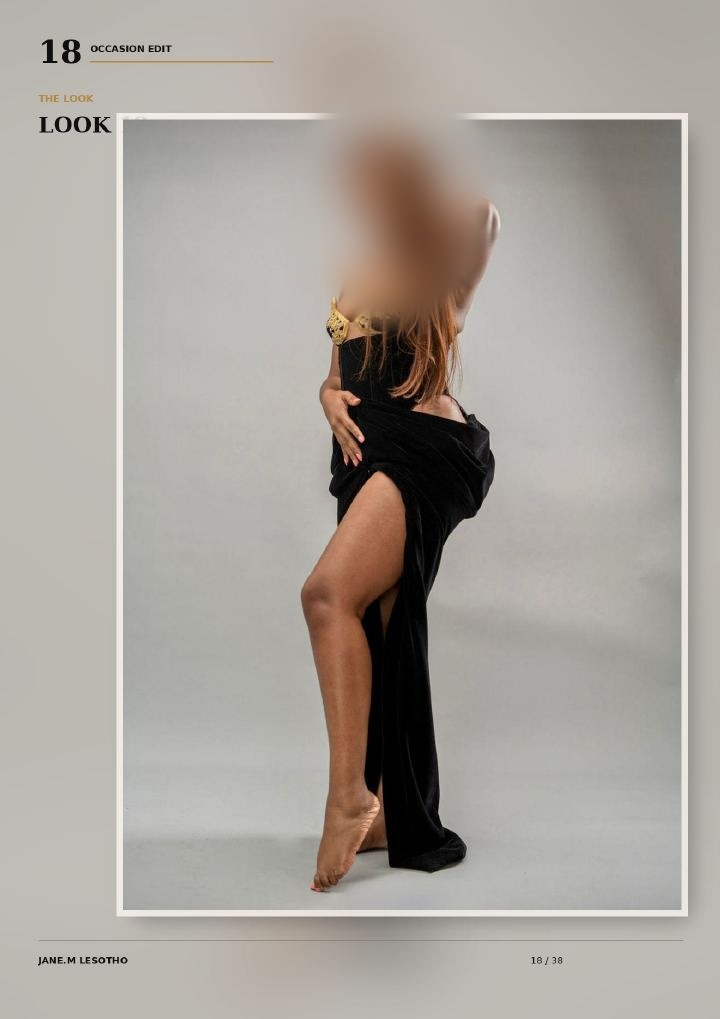
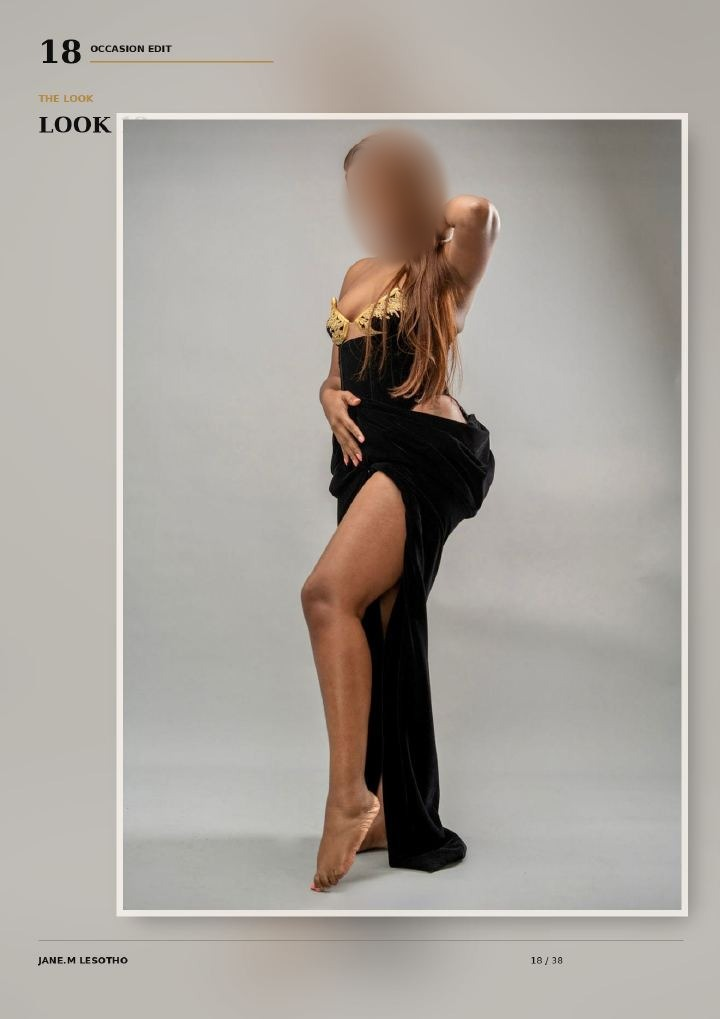
fix: restore JaneM TV embeds and catalogue previews

Changed region(s): [[0.4583, 0.1521, 0.6722, 0.3346], [0.4278, 0.0913, 0.6417, 0.1521], [0.4583, 0.1521, 0.4889, 0.1825]]

diff --git a/JaneM_Website/janem-tv/index.html b/JaneM_Website/janem-tv/index.html
@@ -10,9 +10,6 @@
   <link rel="preconnect" href="https://fonts.gstatic.com" crossorigin />
   <link rel="preload" as="style" href="https://fonts.googleapis.com/css2?family=Cormorant+Garamond:wght@500;600;700&family=Manrope:wght@400;500;600;700&display=swap" onload="this.onload=null;this.rel='stylesheet'" />
   <link rel="stylesheet" href="../styles.css" />
-
-
-
 <!-- SEO:START --><link rel="canonical" href="https://sargont.github.io/JaneM/janem-tv/" /><meta name="robots" content="index,follow,max-image-preview:large" /><meta property="og:type" content="website" /><meta property="og:site_name" content="Jane.M Lesotho" /><meta property="og:title" content="JaneM TV | Official JaneM" /><meta property="og:description" content="Behind the Seams — JaneM TV: fashion inspiration, studio moments and stories from the designer." /><meta property="og:url" content="https://sargont.github.io/JaneM/janem-tv/" /><meta property="og:image" content="https://sargont.github.io/JaneM/assets/look-gold.jpg" /><meta property="og:image:alt" content="Jane.M fashion collection" /><meta name="twitter:card" content="summary_large_image" /><meta name="twitter:title" content="JaneM TV | Official JaneM" /><meta name="twitter:description" content="Behind the Seams — JaneM TV: fashion inspiration, studio moments and stories from the designer." /><meta name="twitter:image" content="https://sargont.github.io/JaneM/assets/look-gold.jpg" /><script type="application/ld+json">{"@context":"https://schema.org","@type":"ClothingStore","name":"Jane.M Lesotho","url":"https://sargont.github.io/JaneM/","email":"officialjanem@gmail.com","telephone":"+26662790946","areaServed":[{"@type":"City","name":"Maseru"},{"@type":"City","name":"Lesotho"}],"sameAs":["https://youtube.com/@janemtv","https://www.facebook.com/share/1CvrANPy9Q/","https://www.instagram.com/___jane_m/"]}</script><script type="application/ld+json">{"@context":"https://schema.org","@type":"BreadcrumbList","itemListElement":[{"@type":"ListItem","position":1,"name":"Home","item":"https://sargont.github.io/JaneM/"},{"@type":"ListItem","position":2,"name":"JaneM TV","item":"https://sargont.github.io/JaneM/janem-tv/"}]}</script><!-- SEO:END -->
 </head>
 <body>
@@ -32,6 +29,6 @@
     <section class="janem-tv-gallery section"><div class="container"><div class="janem-tv-intro"><p class="eyebrow">Watch next</p><div><h2>From the studio.</h2><p>Choose a story to feature it above. Video playback loads only when a configured JaneM TV video is selected.</p></div></div><div class="janem-tv-cards" data-janem-tv-cards aria-label="JaneM TV video selection"></div><div class="janem-tv-channel-cta"><a class="btn btn-ghost" data-janem-tv-channel data-analytics-event="janem_tv_channel" href="https://youtube.com/@janemtv" target="_blank" rel="noopener noreferrer">Watch JaneM TV</a></div></div></section>
   </main>
   <footer><div class="container footer-grid"><div class="footer-brand"><a class="brand" href="../index.html" aria-label="Jane.M home"><img src="../assets/logo-transparent.png" width="1055" height="1491" alt="Jane.M Lesotho logo" /></a><p>Made-to-measure women's fashion for milestones and special occasions.</p></div><div><strong>Contact</strong><a data-analytics-event="whatsapp_click" href="https://wa.me/26662790946" target="_blank" rel="noopener">+266 6279 0946 on WhatsApp</a><a href="mailto:officialjanem@gmail.com">officialjanem@gmail.com</a></div><div><strong>Explore</strong><a href="./">JaneM TV</a><a href="../journal/">Journal</a><a href="../privacy/">Privacy</a><a href="../terms/">Terms</a></div></div><div class="container footer-bottom"><span>© 2026 Jane.M Lesotho</span><span>Elegantly you. Uniquely Jane.M.</span></div></footer>
-  <script src="../config.js"></script><script src="../analytics.js"></script><script src="../seo-analytics.js"></script><script src="janem-tv-config.js"></script><script src="janem-tv.js"></script><script src="../script.js"></script>
+  <script src="../config.js"></script><script src="../analytics.js"></script><script src="../seo-analytics.js"></script><script src="janem-tv-config.js?v=20260804videos"></script><script src="janem-tv.js?v=20260804videos"></script><script src="../script.js"></script>
 </body>
 </html>

diff --git a/scripts/build-seo-site.js b/scripts/build-seo-site.js
@@ -56,7 +56,7 @@ const imageEntries = ["assets/look-gold.jpg", "assets/look-sleeves.jpg", "assets
 fs.writeFileSync(path.join(site, "sitemap.xml"), `<?xml version="1.0" encoding="UTF-8"?>\n<urlset xmlns="http://www.sitemaps.org/schemas/sitemap/0.9" xmlns:image="http://www.google.com/schemas/sitemap-image/1.1">\n${sitemapRoutes.map((route, index) => `  <url><loc>${absolute(route)}</loc><lastmod>${today}</lastmod>${index < 4 ? `<image:image><image:loc>${absolute(imageEntries[index % imageEntries.length])}</image:loc><image:title>Jane.M Lesotho collection</image:title></image:image>` : ""}</url>`).join("\n")}\n</urlset>\n`);
 fs.writeFileSync(path.join(site, "robots.txt"), `User-agent: *\nAllow: /\nDisallow: /admin/\nDisallow: /admin.html\nDisallow: /assets/catalogue.pdf\n\nSitemap: ${absolute("/sitemap.xml")}\n`);
 fs.writeFileSync(path.join(site, "404.html"), `<!doctype html><html lang="en"><head><meta charset="utf-8"><meta name="viewport" content="width=device-width,initial-scale=1"><meta name="robots" content="noindex,follow"><title>Page not found | Jane.M Lesotho</title><link rel="stylesheet" href="styles.css"></head><body><main class="admin-page"><div class="admin-shell"><p class="eyebrow">404</p><h1>That page is<br><span>not here.</span></h1><p class="admin-lead">The page may have moved, or the link may be incomplete.</p><a class="btn btn-gold" href="index.html">Return to Jane.M</a></div></main></body></html>`);
-function augmentExisting(file, page, route, image, extras) { const target = path.join(site, file); let html = fs.readFileSync(target, "utf8"); html = html.replace(/<!-- SEO:START -->[\s\S]*?<!-- SEO:END -->/, ""); html = html.replace("</head>", `${metadata(page, route, image, extras)}\n</head>`); if (!html.includes("seo-analytics.js")) html = html.replace("</body>", "  <script src=\"seo-analytics.js\"></script>\n</body>"); fs.writeFileSync(target, html); }
+function augmentExisting(file, page, route, image, extras) { const target = path.join(site, file); let html = fs.readFileSync(target, "utf8"); html = html.replace(/(?:\n[ \t]*)*<!-- SEO:START -->[\s\S]*?<!-- SEO:END -->/, ""); html = html.replace("</head>", `${metadata(page, route, image, extras)}\n</head>`); if (!html.includes("seo-analytics.js")) html = html.replace("</body>", "  <script src=\"seo-analytics.js\"></script>\n</body>"); fs.writeFileSync(target, html); }
 const website = { "@context": "https://schema.org", "@type": "WebSite", name: "Jane.M Lesotho", url: absolute("/") };
 const video = { "@context": "https://schema.org", "@type": "VideoObject", name: "Jane.M Graduation Collection 2026", description: "Jane.M promotional film for the Graduation Collection 2026.", thumbnailUrl: absolute("assets/look-gold.jpg"), contentUrl: absolute("assets/promo-video.mp4"), uploadDate: "2026-08-04" };
 augmentExisting("index.html", { title: "Made-to-measure dresses for milestones", description: "Jane.M Lesotho creates made-to-measure graduation, wedding and occasion dresses.", imageAlt: "Jane.M ivory and gold corset dress" }, "/", "assets/look-gold.jpg", [website, video]);

diff --git a/JaneM_Website/index.html b/JaneM_Website/index.html
@@ -12,15 +12,6 @@
   <link rel="preload" as="style" href="https://cdnjs.cloudflare.com/ajax/libs/font-awesome/6.5.2/css/all.min.css" referrerpolicy="no-referrer" onload="this.onload=null;this.rel='stylesheet'" />
   <link rel="stylesheet" href="styles.css?v=20260804seo" />
   <noscript><link href="https://fonts.googleapis.com/css2?family=Cormorant+Garamond:wght@500;600;700&family=Manrope:wght@400;500;600;700&display=swap" rel="stylesheet"><link rel="stylesheet" href="https://cdnjs.cloudflare.com/ajax/libs/font-awesome/6.5.2/css/all.min.css" referrerpolicy="no-referrer" /></noscript>
-
-
-
-
-
-
-
-
-
 <!-- SEO:START --><link rel="canonical" href="https://sargont.github.io/JaneM/" /><meta name="robots" content="index,follow,max-image-preview:large" /><meta property="og:type" content="website" /><meta property="og:site_name" content="Jane.M Lesotho" /><meta property="og:title" content="Made-to-measure dresses for milestones" /><meta property="og:description" content="Jane.M Lesotho creates made-to-measure graduation, wedding and occasion dresses." /><meta property="og:url" content="https://sargont.github.io/JaneM/" /><meta property="og:image" content="https://sargont.github.io/JaneM/assets/look-gold.jpg" /><meta property="og:image:alt" content="Jane.M ivory and gold corset dress" /><meta name="twitter:card" content="summary_large_image" /><meta name="twitter:title" content="Made-to-measure dresses for milestones" /><meta name="twitter:description" content="Jane.M Lesotho creates made-to-measure graduation, wedding and occasion dresses." /><meta name="twitter:image" content="https://sargont.github.io/JaneM/assets/look-gold.jpg" /><script type="application/ld+json">{"@context":"https://schema.org","@type":"ClothingStore","name":"Jane.M Lesotho","url":"https://sargont.github.io/JaneM/","email":"officialjanem@gmail.com","telephone":"+26662790946","areaServed":[{"@type":"City","name":"Maseru"},{"@type":"City","name":"Lesotho"}],"sameAs":["https://youtube.com/@janemtv","https://www.facebook.com/share/1CvrANPy9Q/","https://www.instagram.com/___jane_m/"]}</script><script type="application/ld+json">{"@context":"https://schema.org","@type":"BreadcrumbList","itemListElement":[{"@type":"ListItem","position":1,"name":"Home","item":"https://sargont.github.io/JaneM/"}]}</script><script type="application/ld+json">{"@context":"https://schema.org","@type":"WebSite","name":"Jane.M Lesotho","url":"https://sargont.github.io/JaneM/"}</script><script type="application/ld+json">{"@context":"https://schema.org","@type":"VideoObject","name":"Jane.M Graduation Collection 2026","description":"Jane.M promotional film for the Graduation Collection 2026.","thumbnailUrl":"https://sargont.github.io/JaneM/assets/look-gold.jpg","contentUrl":"https://sargont.github.io/JaneM/assets/promo-video.mp4","uploadDate":"2026-08-04"}</script><!-- SEO:END -->
 </head>
 <body>

diff --git a/JaneM_Website/catalogue.html b/JaneM_Website/catalogue.html
@@ -12,15 +12,6 @@
   <link rel="preload" as="style" href="https://cdnjs.cloudflare.com/ajax/libs/font-awesome/6.5.2/css/all.min.css" referrerpolicy="no-referrer" onload="this.onload=null;this.rel='stylesheet'" />
   <link rel="stylesheet" href="styles.css?v=20260804seo" />
   <noscript><link href="https://fonts.googleapis.com/css2?family=Cormorant+Garamond:wght@500;600;700&family=Manrope:wght@400;500;600;700&display=swap" rel="stylesheet"><link rel="stylesheet" href="https://cdnjs.cloudflare.com/ajax/libs/font-awesome/6.5.2/css/all.min.css" referrerpolicy="no-referrer" /></noscript>
-
-
-
-
-
-
-
-
-
 <!-- SEO:START --><link rel="canonical" href="https://sargont.github.io/JaneM/catalogue.html" /><meta name="robots" content="index,follow,max-image-preview:large" /><meta property="og:type" content="website" /><meta property="og:site_name" content="Jane.M Lesotho" /><meta property="og:title" content="Catalogue availability" /><meta property="og:description" content="Jane.M is carefully reviewing catalogue image permissions before online viewing and downloads resume." /><meta property="og:url" content="https://sargont.github.io/JaneM/catalogue.html" /><meta property="og:image" content="https://sargont.github.io/JaneM/assets/look-gold.jpg" /><meta property="og:image:alt" content="Jane.M collection dress" /><meta name="twitter:card" content="summary_large_image" /><meta name="twitter:title" content="Catalogue availability" /><meta name="twitter:description" content="Jane.M is carefully reviewing catalogue image permissions before online viewing and downloads resume." /><meta name="twitter:image" content="https://sargont.github.io/JaneM/assets/look-gold.jpg" /><script type="application/ld+json">{"@context":"https://schema.org","@type":"ClothingStore","name":"Jane.M Lesotho","url":"https://sargont.github.io/JaneM/","email":"officialjanem@gmail.com","telephone":"+26662790946","areaServed":[{"@type":"City","name":"Maseru"},{"@type":"City","name":"Lesotho"}],"sameAs":["https://youtube.com/@janemtv","https://www.facebook.com/share/1CvrANPy9Q/","https://www.instagram.com/___jane_m/"]}</script><script type="application/ld+json">{"@context":"https://schema.org","@type":"BreadcrumbList","itemListElement":[{"@type":"ListItem","position":1,"name":"Home","item":"https://sargont.github.io/JaneM/"},{"@type":"ListItem","position":2,"name":"Catalogue","item":"https://sargont.github.io/JaneM/catalogue.html"}]}</script><!-- SEO:END -->
 </head>
 <body>

diff --git a/JaneM_Website/janem-tv/janem-tv.js b/JaneM_Website/janem-tv/janem-tv.js
@@ -1,5 +1,24 @@
 (function initialiseJaneMTV() {
-  const config = window.JaneMTVConfig;
+  const fallbackConfig = {
+    channelUrl: "https://youtube.com/@janemtv",
+    channelName: "JaneM TV",
+    featuredVideoId: "OgL9M95S7MQ",
+    featuredVideoTitle: "A custom order that almost took me out",
+    featuredVideoDescription: "A popular JaneM TV studio story following the demands and detail behind a custom order.",
+    videos: [
+      { id: "Tg8_GjfMLj8", title: "Rediscovering myself at 35", description: "A personal JaneM TV story about growth, reflection and finding your way forward." },
+      { id: "QIci5o8c-FY", title: "A quick client order", description: "A sewing-studio diary following a fast client order and hands-on teaching." },
+      { id: "YnfS36rjZc0", title: "Another custom order", description: "Follow the JaneM studio as work begins on another made-to-measure order." }
+    ]
+  };
+  const suppliedConfig = window.JaneMTVConfig || {};
+  const config = {
+    ...fallbackConfig,
+    ...suppliedConfig,
+    videos: Array.isArray(suppliedConfig.videos) && suppliedConfig.videos.some((video) => /^[A-Za-z0-9_-]{11}$/.test(video.id || ""))
+      ? suppliedConfig.videos
+      : fallbackConfig.videos
+  };
   const player = document.querySelector("[data-janem-tv-player]");
   const title = document.querySelector("[data-janem-tv-title]");
   const description = document.querySelector("[data-janem-tv-description]");

diff --git a/JaneM_Website/styles.css b/JaneM_Website/styles.css
@@ -165,7 +165,7 @@ footer a, footer p { display: block; color: #bcb2a8; text-decoration: none; marg
 .catalogue-restricted p:not(.eyebrow), .catalogue-access-dialog p:not(.eyebrow) { max-width: 620px; color: var(--muted); font-size: 1.03rem; margin-bottom: 26px; }
 .catalogue-card { position: relative; display: block; width: 100%; padding: 0; overflow: hidden; border: 1px solid var(--line); background: #fff; color: var(--black); text-align: left; cursor: zoom-in; box-shadow: 0 12px 32px rgba(34,23,13,.08); transition: transform .2s ease, box-shadow .2s ease; }
 .catalogue-card:hover, .catalogue-card:focus-visible { transform: translateY(-4px); box-shadow: var(--shadow); }
-.catalogue-card img { width: 100%; aspect-ratio: 1 / 1.414; object-fit: cover; }
+.catalogue-card img { display: block; width: 100%; height: auto; aspect-ratio: auto; object-fit: contain; background: var(--paper); }
 .catalogue-card > span { display: block; padding: 12px 15px; font-size: .75rem; font-weight: 800; letter-spacing: .12em; text-transform: uppercase; }
 .catalogue-dialog { width: min(920px, calc(100% - 30px)); max-height: calc(100vh - 30px); padding: 18px; border: 0; background: var(--paper); box-shadow: 0 24px 80px rgba(0,0,0,.42); }
 .catalogue-dialog::backdrop { background: rgba(0,0,0,.74); }

diff --git a/scripts/build_face_blurred_catalogue.py b/scripts/build_face_blurred_catalogue.py
@@ -37,14 +37,15 @@ def detect(image):
 
 def blur_faces(image, faces):
     result = image.copy()
-    softened = cv2.GaussianBlur(image, (0, 0), 22)
+    softened = cv2.GaussianBlur(image, (0, 0), 18)
     for x, y, width, height in faces:
-        pad_x, pad_y = int(width * .35), int(height * .45)
         centre = (x + width // 2, y + height // 2)
-        axes = (width // 2 + pad_x, height // 2 + pad_y)
+        # Keep the privacy mask confined to the recognised face. Earlier
+        # padding spread into nearby catalogue headings and garment details.
+        axes = (max(1, int(width * .48)), max(1, int(height * .5)))
         mask = np.zeros(image.shape[:2], dtype=np.uint8)
         cv2.ellipse(mask, centre, axes, 0, 0, 360, 255, -1)
-        mask = cv2.GaussianBlur(mask, (0, 0), 10)
+        mask = cv2.GaussianBlur(mask, (0, 0), 4)
         alpha = (mask.astype(np.float32) / 255)[:, :, None]
         result = (softened * alpha + result * (1 - alpha)).astype(np.uint8)
     return result
